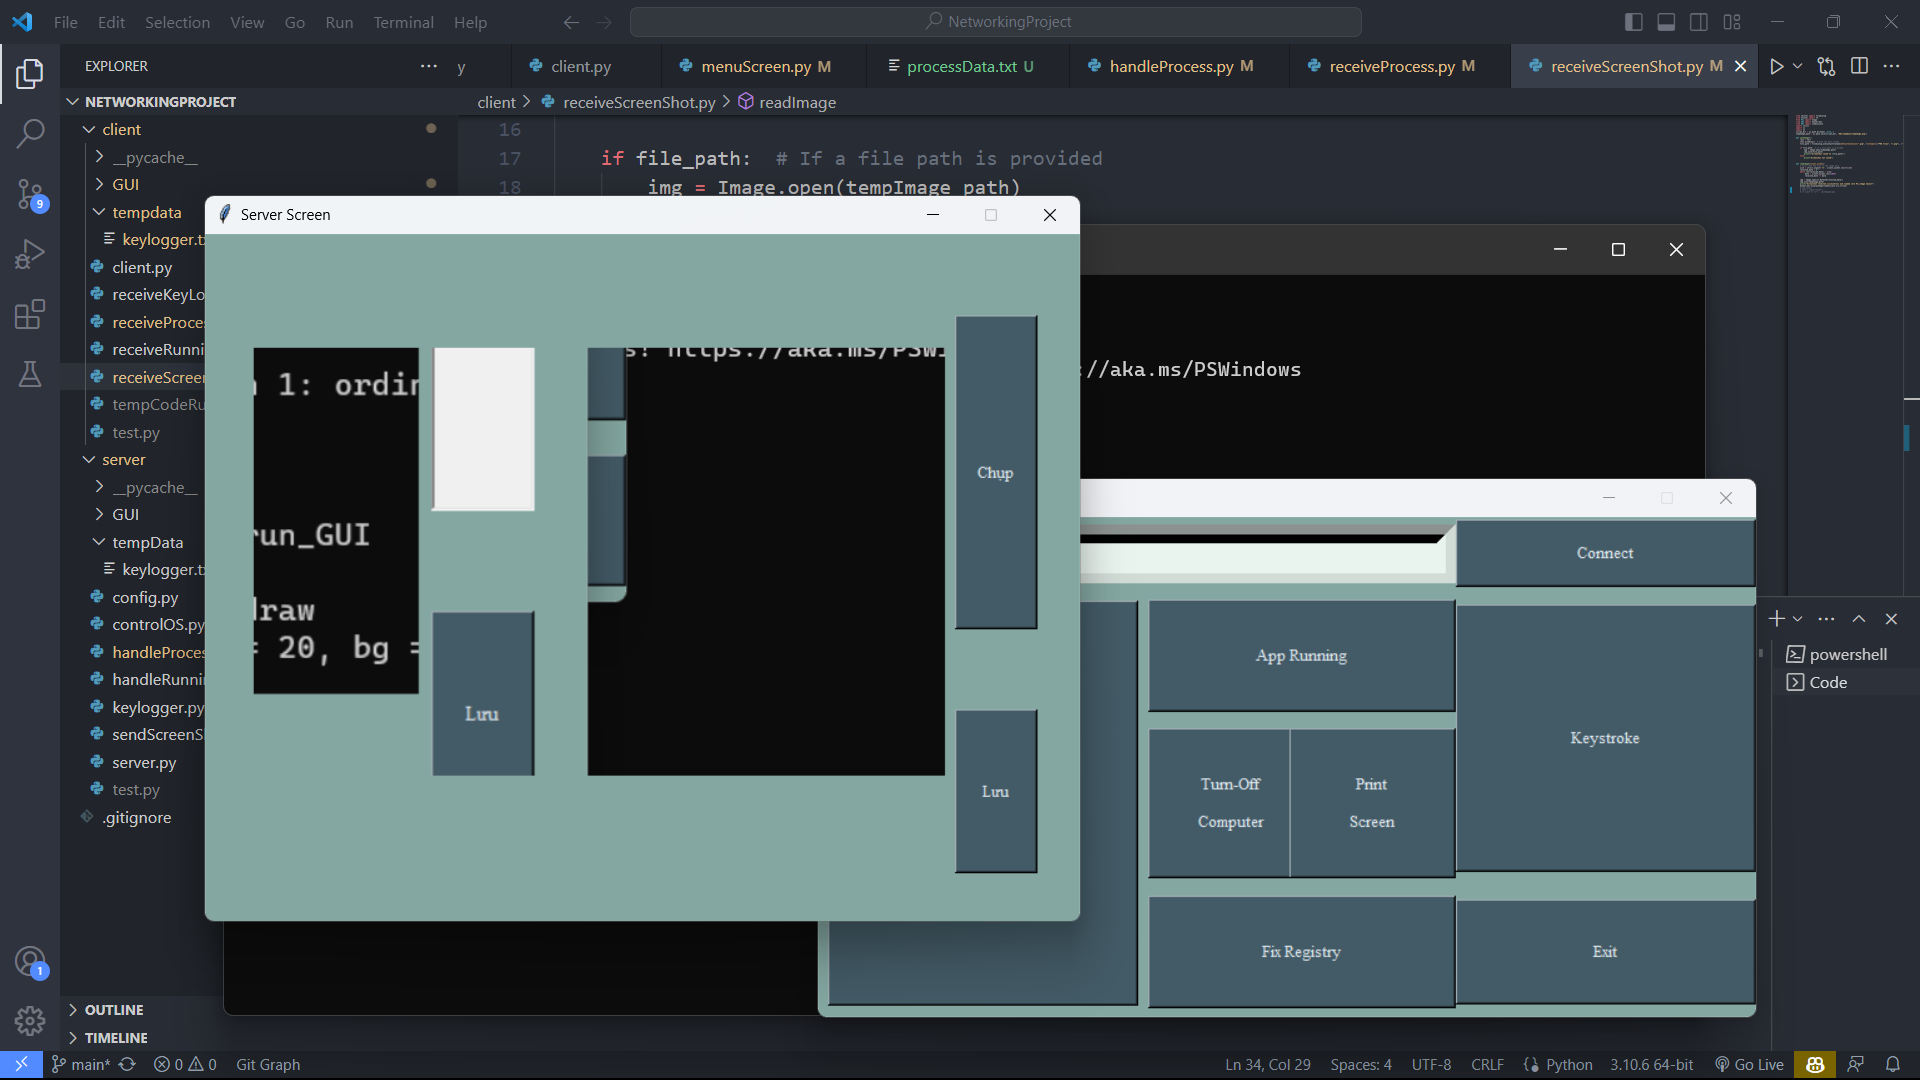
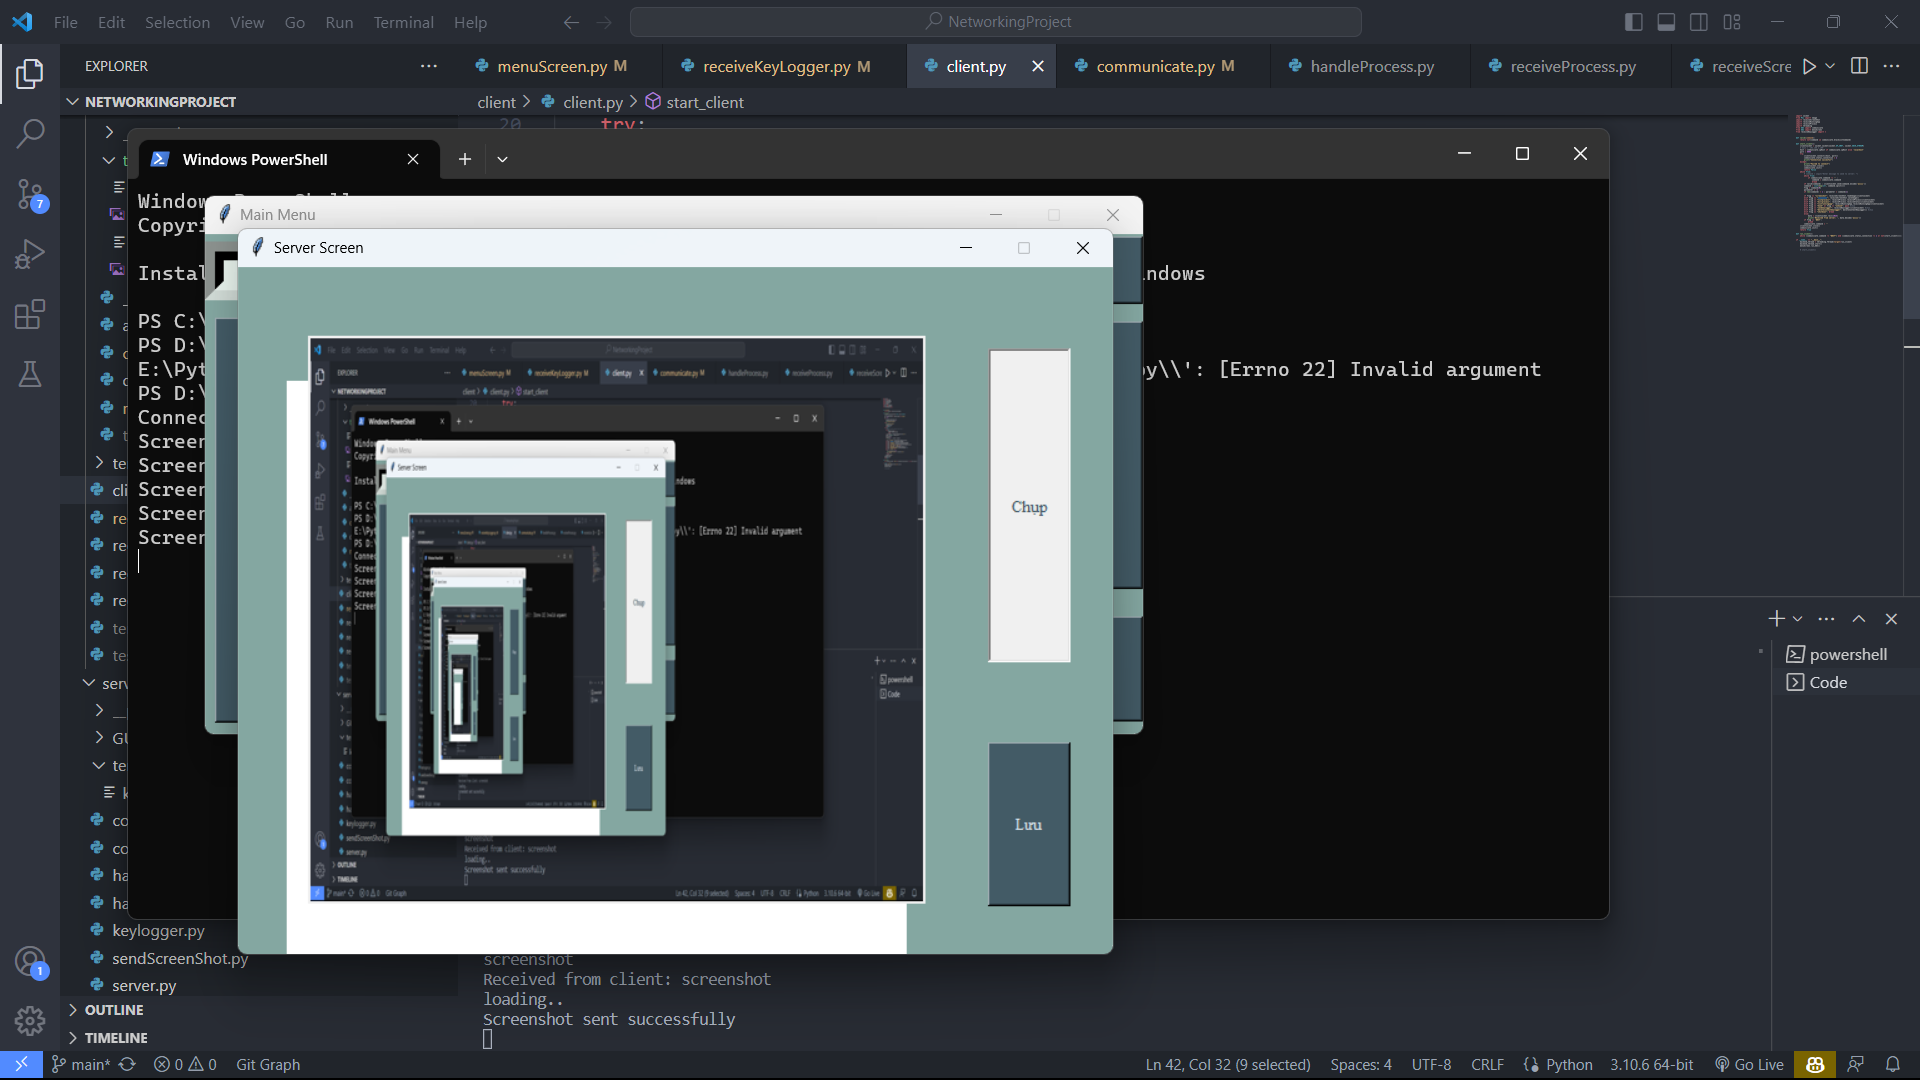
fix bug crash when save image

diff --git a/client/GUI/menuScreen.py b/client/GUI/menuScreen.py
@@ -148,6 +148,7 @@ def do_start(s,root,listbox_1,listbox_2,listbox_3):
     start_window(root,listbox_1,listbox_2,listbox_3)
 
 def do_view(s,root,listbox_1,listbox_2,listbox_3):
+    do_clear(s, root, listbox_1, listbox_2, listbox_3)
     click_button(s)
     script_dir = os.path.dirname(__file__)
     img_path = os.path.join(script_dir, "tempData\\processData.txt")
@@ -231,7 +232,7 @@ def scr_window():
     my_scr.resizable(False, False)
     communicate.src_screen = my_scr
 
-    label = Label(my_scr, image = img, width=70, height=80) #width = img_width/3.5, height = img_height/3.2)
+    label = Label(my_scr, bg = "#FFFFFF", width=70, height=80) #width = img_width/3.5, height = img_height/3.2)
     # label.image = img
     label.place(relx = 0.055, rely = 0.165 )
 

diff --git a/client/GUI/communicate.py b/client/GUI/communicate.py
@@ -3,7 +3,7 @@ command = ''
 processDone = False
 status_connection = 0  #0 : disconnect, 1 : connecting, 2 : connected
 src_screen = None
-blackListCommand = ["deletecontentkeylogger"]
+blackListCommand = ["deletecontentkeylogger", "saveimage"]
 
 def init():
     global ipHost, command, status_connection, src_screen

diff --git a/client/receiveKeyLogger.py b/client/receiveKeyLogger.py
@@ -3,7 +3,7 @@ import struct
 import os 
 
 script_dir = os.path.dirname(__file__)
-filePath = os.path.join(script_dir, "tempData/keylogger.txt")
+filePath = os.path.join(script_dir, "GUI/tempData/keylogger.txt")
 
 def deleteContentKeyLogger():
     with open(filePath, "w") as fi:
